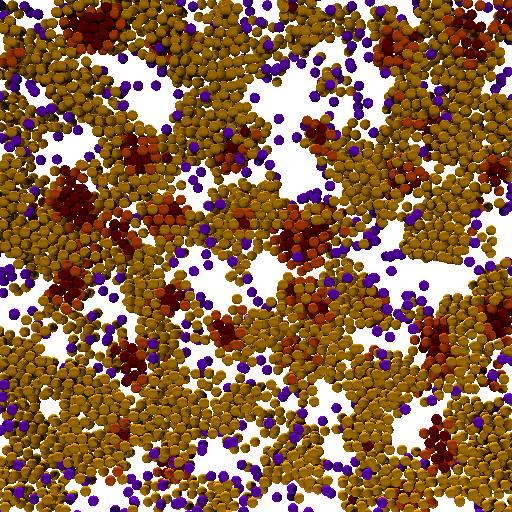
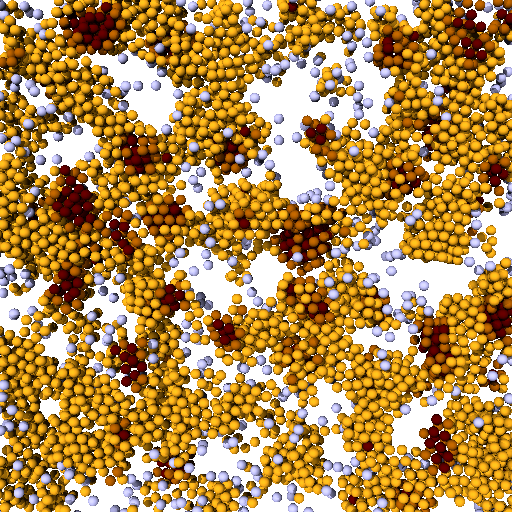
more saturation gap between the 4 colors to be print ready

diff --git a/data/slices.py b/data/slices.py
@@ -11,9 +11,9 @@ for t in [120, 390, 890]:
     crystals = Union(*[
         Sphere( (x,y,z), 5)
         for x,y,z in pos[phase<3]
-        ]+[Texture(Pigment(color=(0.5,0,0)))])
+        ]+[Texture(Pigment(color=(0.33,0,0)))])
     f.write(crystals)
-    for i, c in zip([3,4,5], [(1,0.33,0), (1,0.66,0), (0.5,0,1)]):
+    for i, c in zip([3,4,5], [(0.66,0.33,0), (1,0.66,0.1), (0.75,0.75,1)]):
         f.write(Union(*[
             Sphere( (x,y,z), 5)
             for x,y,z in pos[phase==i]
